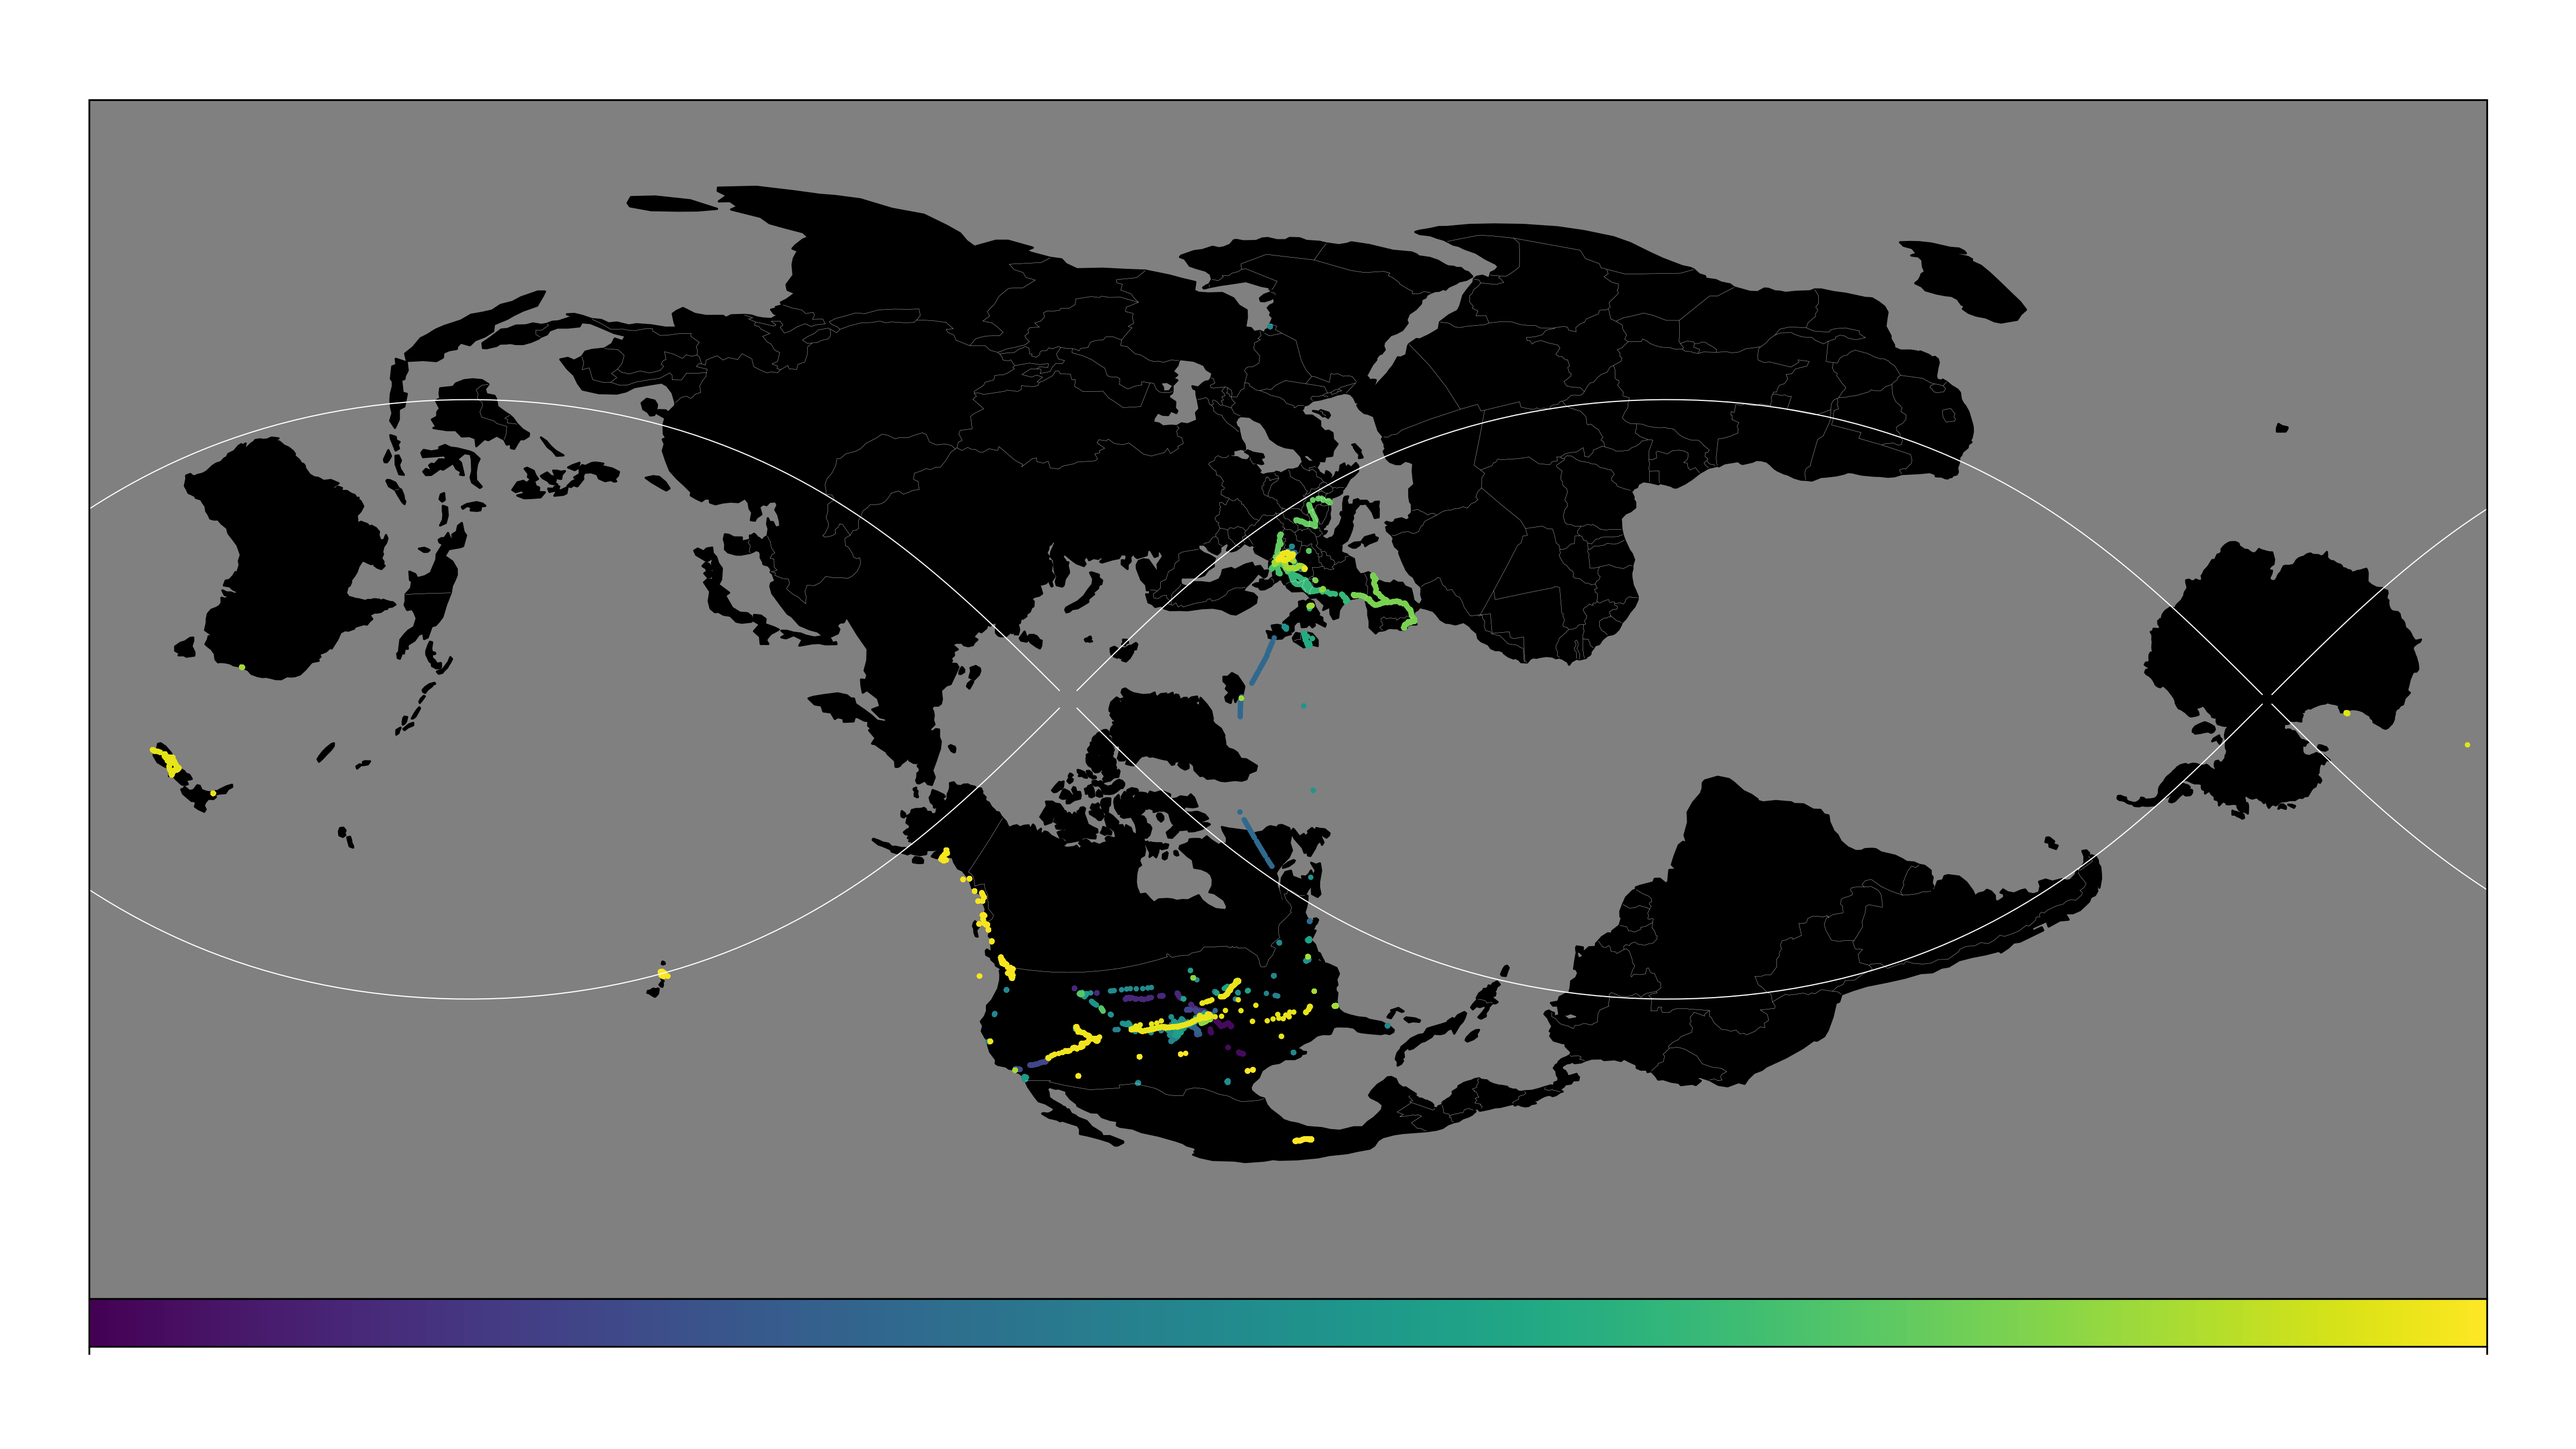
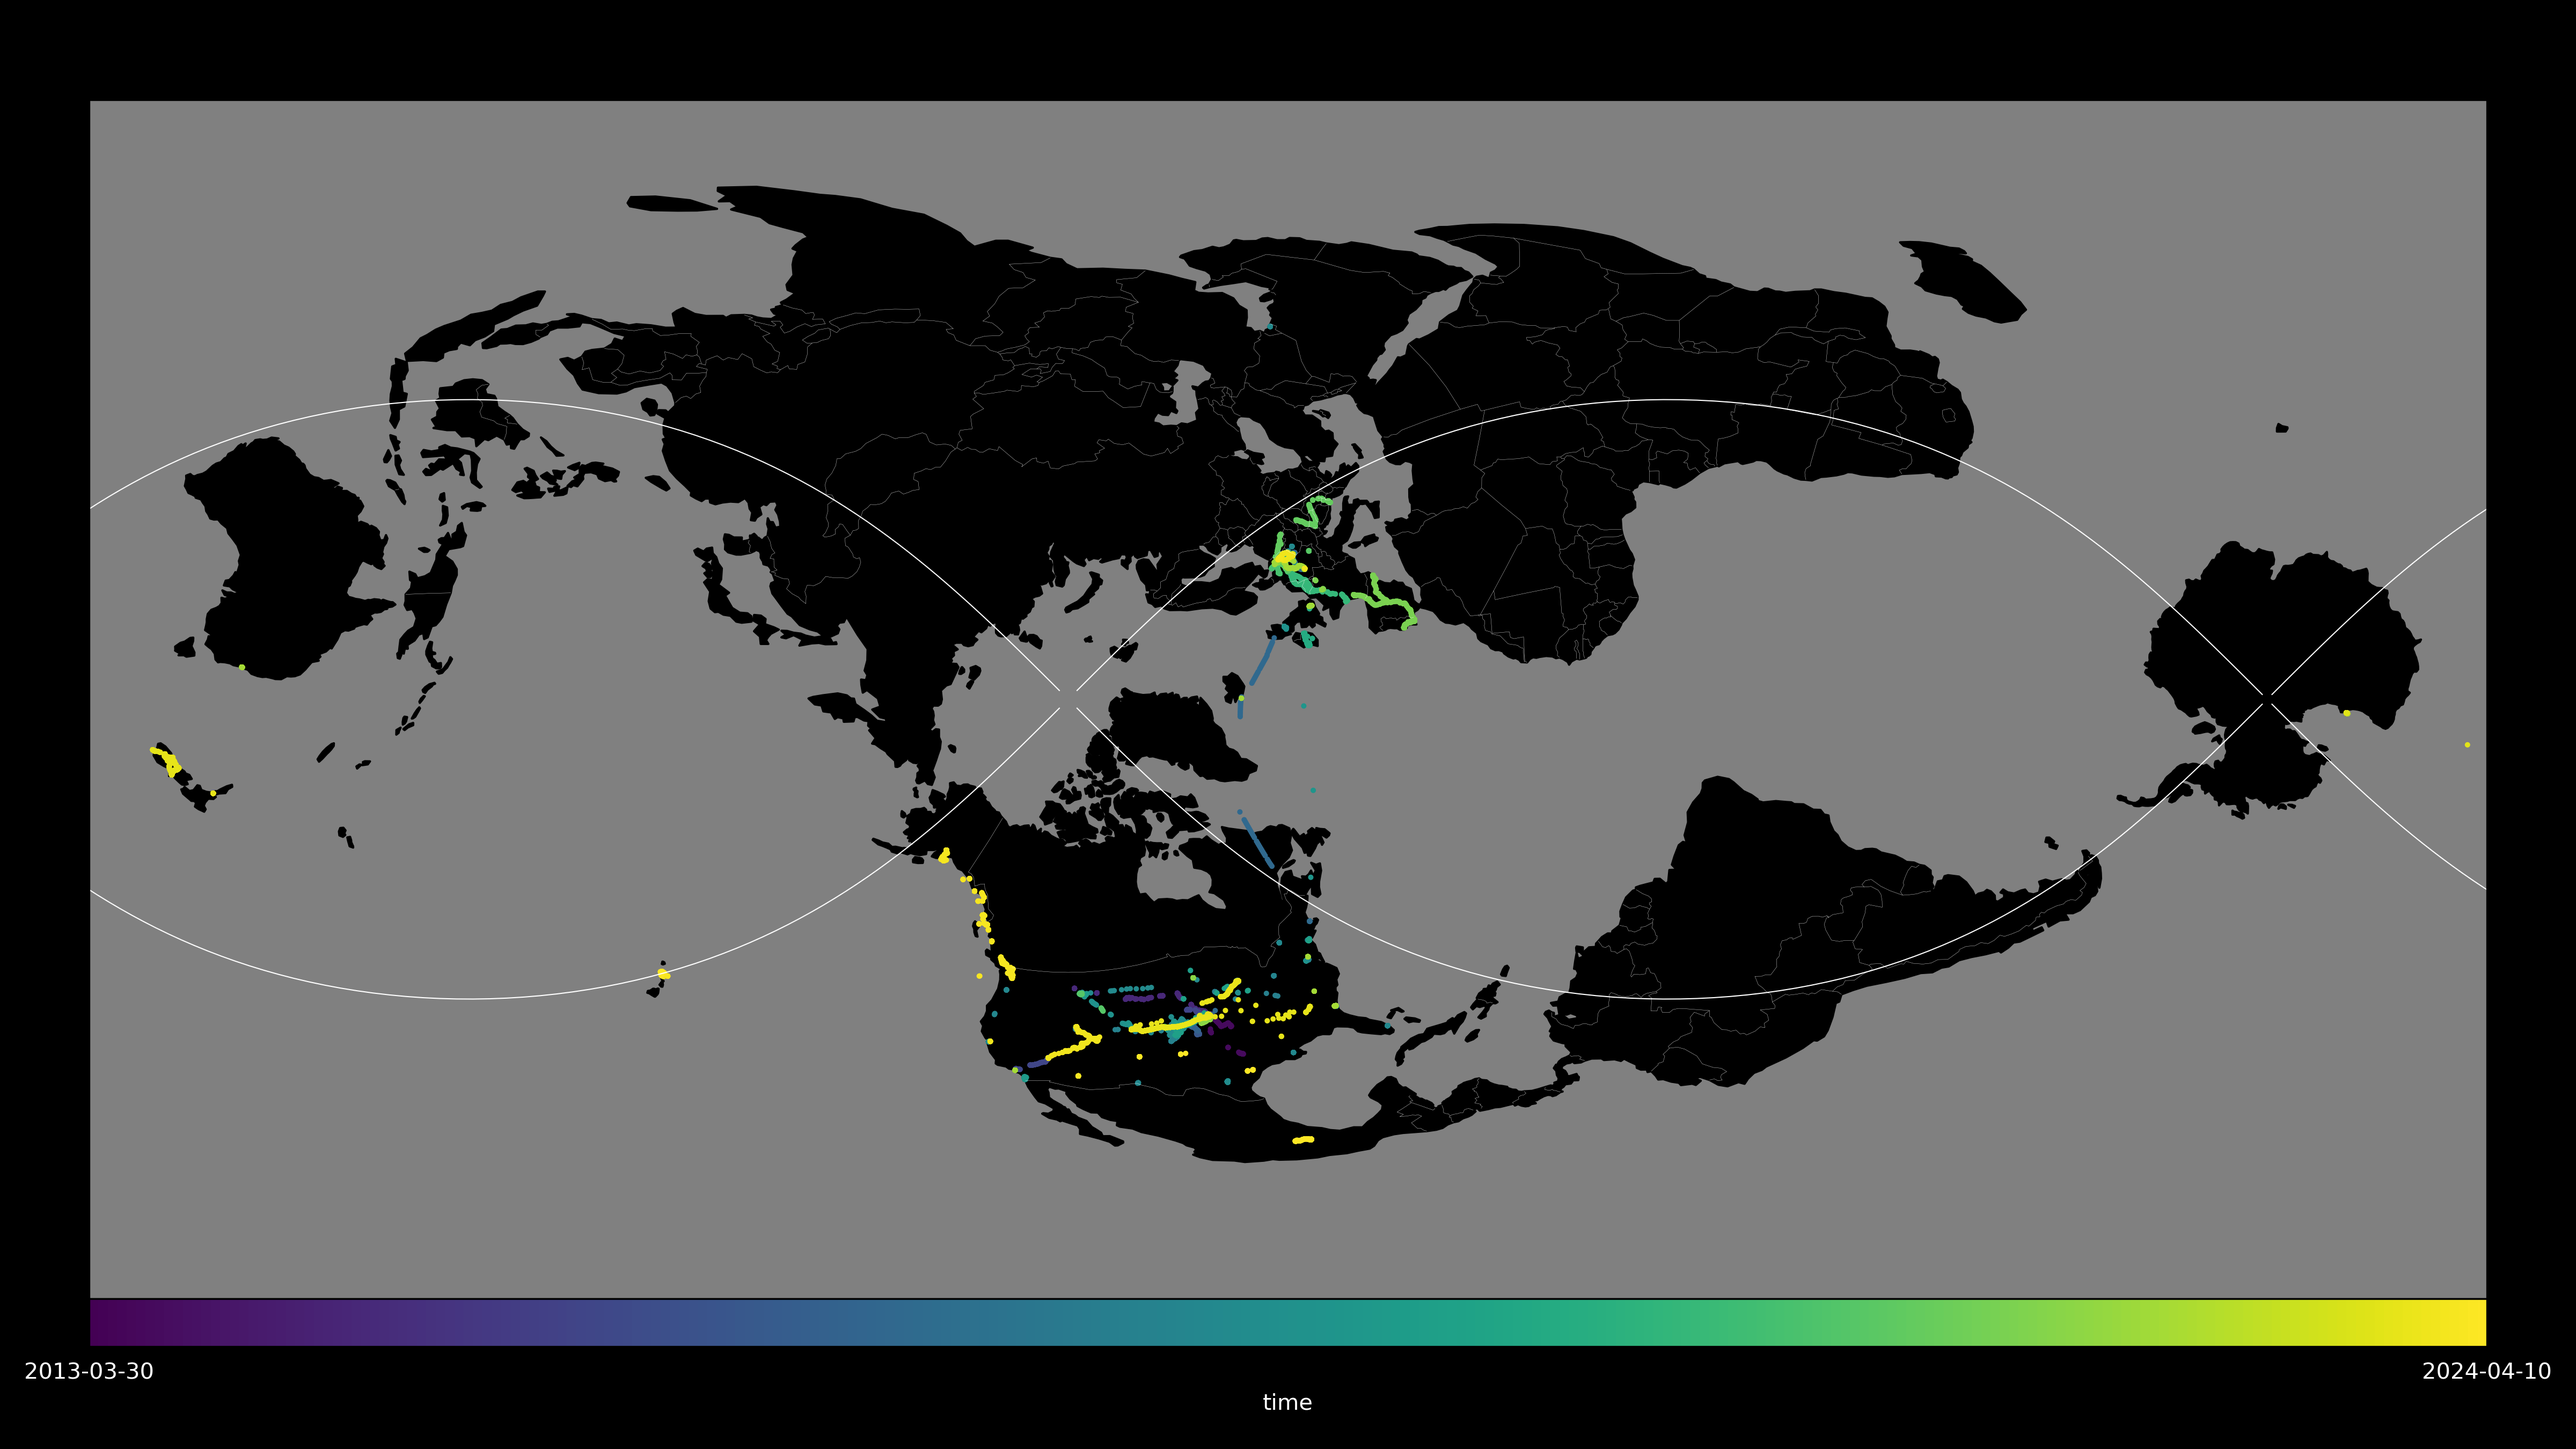
changed figure frame color

Changed region(s): [[0.0, 0.0, 1.0, 1.0]]

diff --git a/whereivebeen/whereivebeen.py b/whereivebeen/whereivebeen.py
@@ -55,7 +55,7 @@ def mapping(lats, lons, times):
     cbar.set_label(label='time', color='w')
 
     plt.tight_layout()
-    plt.savefig('whereivebeen.png', transparent=True)
+    plt.savefig('whereivebeen.png', facecolor='black')
 
 
 if __name__ == '__main__':
